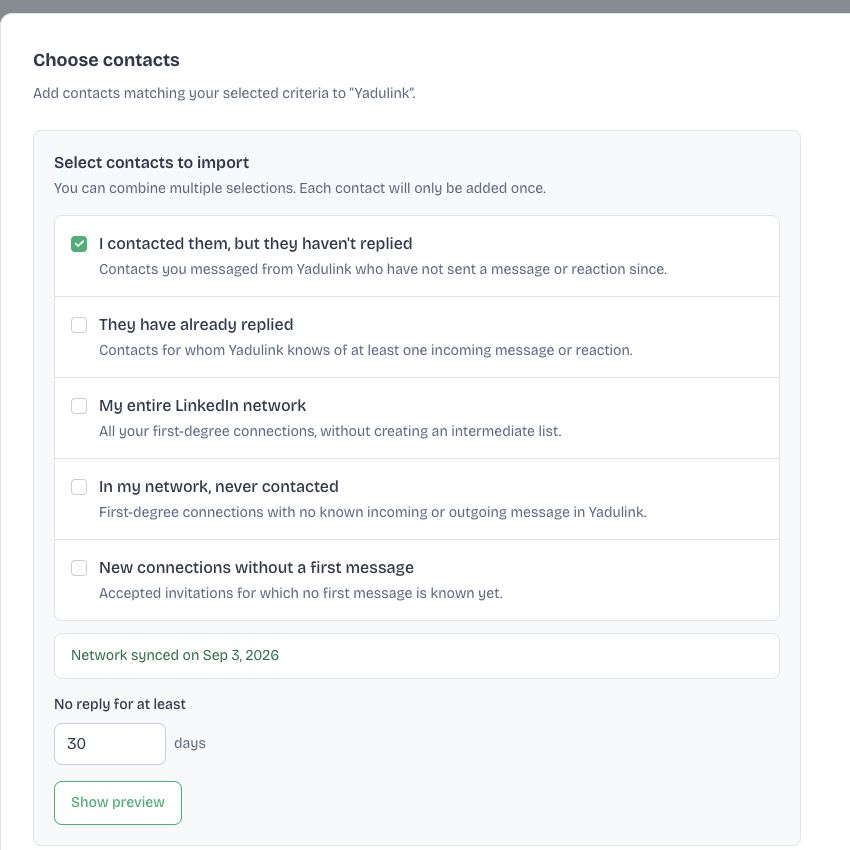
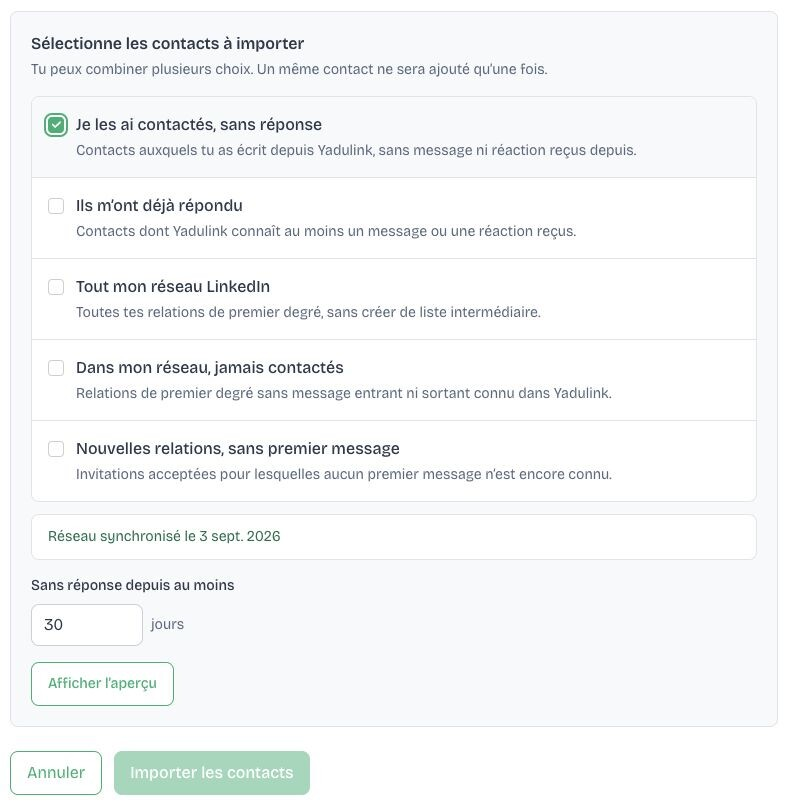
Correct contact import documentation language

diff --git a/docs/liste-de-contacts/depuis-ton-reseau.md b/docs/liste-de-contacts/depuis-ton-reseau.md
@@ -1,20 +1,75 @@
 ---
 sidebar_position: 10
-title: Depuis ton réseau
+title: Depuis tes contacts Yadulink
+description: Crée une liste de contacts à partir de ton historique de prospection et de ton réseau LinkedIn dans Yadulink.
+keywords:
+  - listes de contacts Yadulink
+  - contacts LinkedIn
+  - import du réseau LinkedIn
+  - contacts ayant répondu
+  - contacts sans réponse
 ---
 
-# Depuis ton réseau
+# Depuis tes contacts Yadulink
 
-Pour importer ton réseau dans une liste de contacts :
+Utilise les contacts déjà connus de Yadulink pour créer une liste ciblée à partir de ton historique de prospection et de tes relations LinkedIn.
 
-1. Ouvre les paramètres des listes de contacts
+## Ouvrir le sélecteur de contacts
 
-2. Clique sur **Importer**
+1. Ouvre **Listes de contacts** et sélectionne la liste de destination.
+2. Ouvre l’onglet **Ajouter des contacts**.
+3. Dans **Depuis mes contacts Yadulink**, clique sur **Choisir des contacts**.
+4. Sélectionne un ou plusieurs signaux, puis clique sur **Afficher l’aperçu** avant l’import.
+5. Lorsque la sélection est prête, clique sur **Importer les contacts**.
 
-![Importer ton réseau](/img/liste-de-contacts/reseau-step1.png)
+Tu peux combiner plusieurs signaux dans un même import. Si un contact correspond à plusieurs signaux sélectionnés, Yadulink ne l’ajoute qu’une seule fois à la liste de destination.
 
-3. Une fenêtre de confirmation apparaît pour lancer l'import, clique sur **Confirmer**
+:::info Synchronisation du réseau LinkedIn
+Les trois signaux basés sur ton réseau deviennent disponibles une fois que Yadulink a préparé ton réseau LinkedIn. Le sélecteur affiche l’état de la synchronisation. Les signaux basés sur les réponses restent disponibles pendant cette préparation.
+:::
 
-![Confirmer l'import](/img/liste-de-contacts/reseau-step2.png)
+## Vue d’ensemble des signaux
 
-4. L'import est lancé, selon la taille de ton réseau, l'import peut durer de quelques minutes à quelques heures.
+| Signal | Contacts inclus |
+| --- | --- |
+| **Je les ai contactés, sans réponse** | Contacts auxquels tu as écrit depuis Yadulink et dont tu n’as reçu ni message ni réaction depuis. |
+| **Ils m’ont déjà répondu** | Contacts pour lesquels Yadulink connaît au moins un message ou une réaction reçus. |
+| **Tout mon réseau LinkedIn** | Toutes tes relations LinkedIn de premier degré, ajoutées directement à la liste de destination. |
+| **Dans mon réseau, jamais contactés** | Relations de premier degré sans message entrant ni sortant connu dans Yadulink. |
+| **Nouvelles relations, sans premier message** | Invitations acceptées pour lesquelles Yadulink ne connaît encore aucun premier message. |
+
+## Je les ai contactés, sans réponse
+
+Choisis ce signal pour retrouver les contacts auxquels tu as écrit depuis Yadulink sans recevoir ensuite de message ni de réaction de leur part.
+
+Une fois le signal sélectionné, le champ **Sans réponse depuis au moins** permet de définir le nombre minimal de jours sans réponse. La valeur proposée par défaut est de 30 jours ; adapte-la à la période de relance que tu souhaites examiner.
+
+![Signal « Je les ai contactés, sans réponse » sélectionné dans Yadulink](/img/liste-de-contacts/signal-contacted-no-reply.jpg)
+
+## Ils m’ont déjà répondu
+
+Choisis ce signal pour retrouver les contacts dont Yadulink connaît au moins un message ou une réaction reçus. Il est utile pour créer une liste à partir d’interactions existantes plutôt que de prises de contact restées sans réponse.
+
+![Signal « Ils m’ont déjà répondu » sélectionné dans Yadulink](/img/liste-de-contacts/signal-already-replied.jpg)
+
+## Tout mon réseau LinkedIn
+
+Choisis ce signal pour ajouter toutes tes relations LinkedIn de premier degré directement à la liste de destination. Yadulink ne crée pas de liste intermédiaire.
+
+![Signal « Tout mon réseau LinkedIn » sélectionné dans Yadulink](/img/liste-de-contacts/signal-entire-linkedin-network.jpg)
+
+## Dans mon réseau, jamais contactés
+
+Choisis ce signal pour retrouver les relations de premier degré sans message entrant ni sortant connu dans Yadulink. « Jamais contactés » se réfère donc à l’historique de conversation dont Yadulink dispose.
+
+![Option « Dans mon réseau, jamais contactés » cochée dans Yadulink](/img/liste-de-contacts/signal-never-contacted.jpg)
+
+## Nouvelles relations, sans premier message
+
+Choisis ce signal pour retrouver les invitations LinkedIn acceptées pour lesquelles Yadulink ne connaît encore aucun premier message. Tu peux ainsi isoler les nouvelles relations avec lesquelles aucune conversation n’a encore commencé.
+
+![Signal « Nouvelles relations, sans premier message » sélectionné dans Yadulink](/img/liste-de-contacts/signal-new-connections-no-message.jpg)
+
+:::note
+Cet import ajoute uniquement les contacts correspondants à la liste de destination. Il n’envoie aucun message LinkedIn et ne démarre aucune séquence.
+:::
